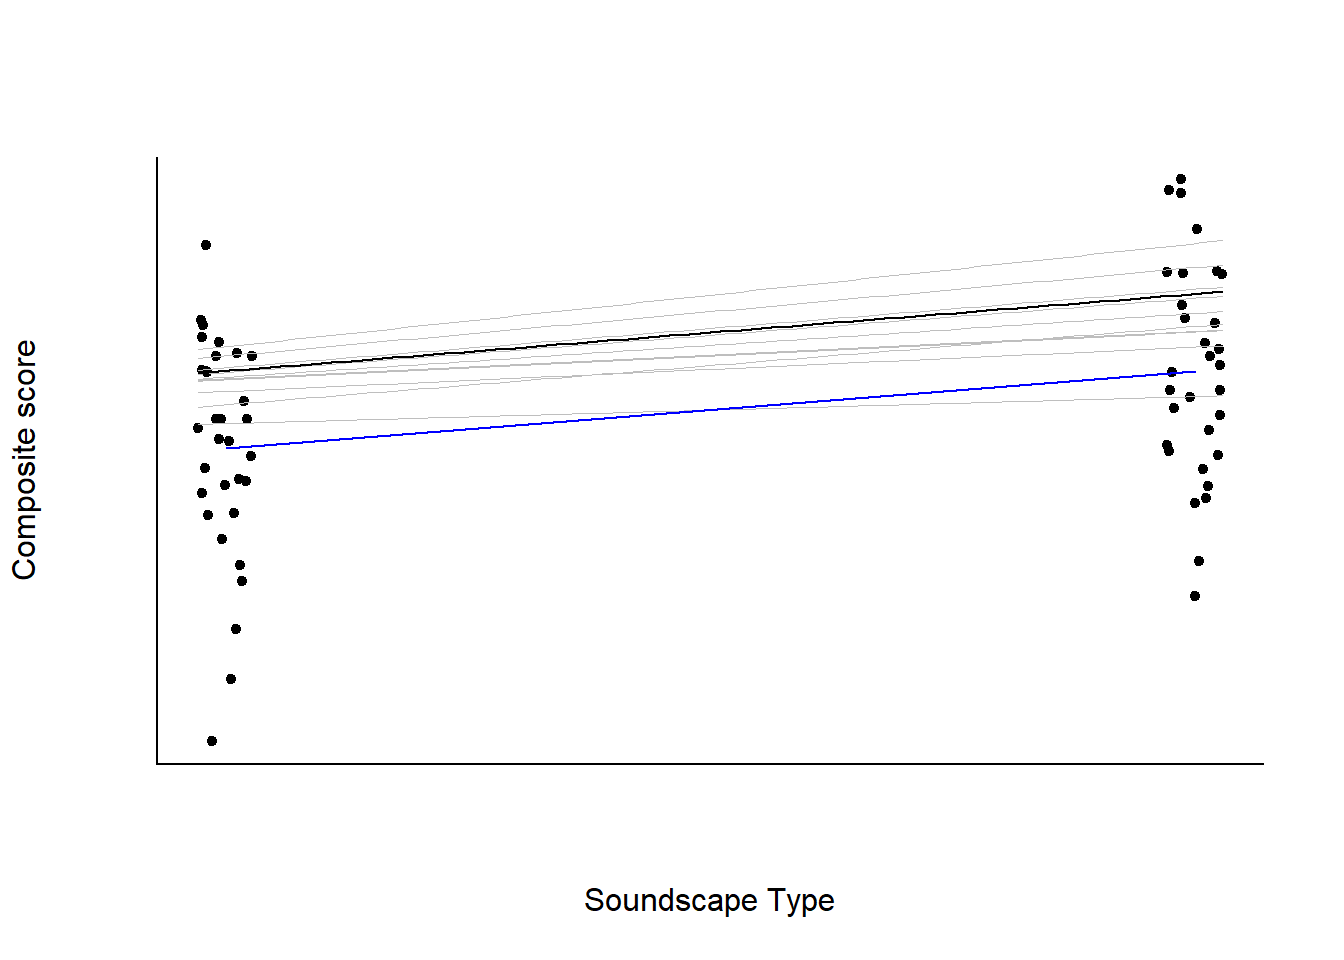
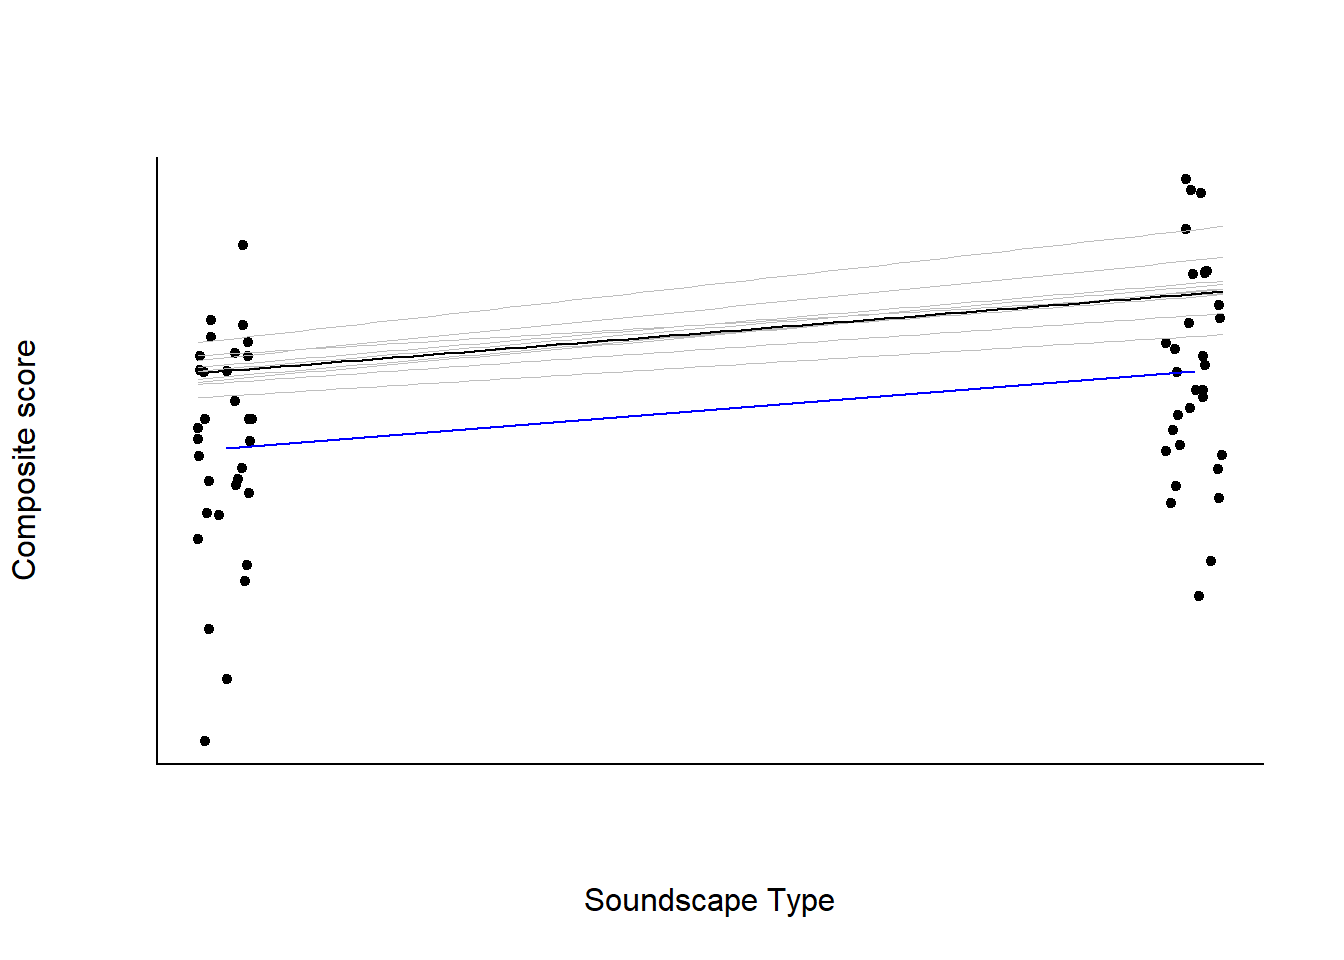
Fixed the compatibility intervals thanks to Mats Nilsson

Changed region(s): [[0.125, 0.1875, 0.9062, 0.5938], [0.875, 0.5625, 0.9062, 0.5938]]

diff --git a/docs/slides.html b/docs/slides.html
@@ -54,8 +54,8 @@ Jon Ingi Hlynsson
 
 
 .center2[
-<div id="htmlwidget-0f6c3204c83e0308e832" style="width:700px;height:504px;" class="grViz html-widget"></div>
-<script type="application/json" data-for="htmlwidget-0f6c3204c83e0308e832">{"x":{"diagram":"digraph flowchart {\n      # node definitions with substituted label text\n      node [fontname = Helvetica, shape = rectangle]        \n      tab1 [label = \"Participants recruited from the University of Chicago campus and surrounding community\"]\n      tab2 [label = \"Total number of participants n=65\"]\n      tab3 [label = \"Participants non analyzable due to non-compliance n=2\"]\n      tab4 [label = \"Participants analyzable for the study n=63\"]\n      tab5 [label = \"Study sample n=63\"]\n      tab6 [label = \"Participants compleated the dual n-back (DNB) task and back-ward digit span (BDS) task\"]\n      tab7 [label = \"Participants heard natural sounds n=31\"]\n      tab8 [label = \"Participants heard urban sounds n=32\"]\n      tab9 [label = \"Participants retook the dual n-back (DNB) task and back-ward digit span (BDS) task\"]\n\n      # edge definitions with the node IDs\n      tab1 -> tab2;\n      tab2 -> tab3;\n      tab2 -> tab4 -> tab5 -> tab6\n      tab6 -> tab7\n      tab6 -> tab8\n      tab7 -> tab9\n      tab8 -> tab9\n      }","config":{"engine":"dot","options":null}},"evals":[],"jsHooks":[]}</script>
+<div id="htmlwidget-159538a13d753cb7a910" style="width:700px;height:504px;" class="grViz html-widget"></div>
+<script type="application/json" data-for="htmlwidget-159538a13d753cb7a910">{"x":{"diagram":"digraph flowchart {\n      # node definitions with substituted label text\n      node [fontname = Helvetica, shape = rectangle]        \n      tab1 [label = \"Participants recruited from the University of Chicago campus and surrounding community\"]\n      tab2 [label = \"Total number of participants n=65\"]\n      tab3 [label = \"Participants non analyzable due to non-compliance n=2\"]\n      tab4 [label = \"Participants analyzable for the study n=63\"]\n      tab5 [label = \"Study sample n=63\"]\n      tab6 [label = \"Participants compleated the dual n-back (DNB) task and back-ward digit span (BDS) task\"]\n      tab7 [label = \"Participants heard natural sounds n=31\"]\n      tab8 [label = \"Participants heard urban sounds n=32\"]\n      tab9 [label = \"Participants retook the dual n-back (DNB) task and back-ward digit span (BDS) task\"]\n\n      # edge definitions with the node IDs\n      tab1 -> tab2;\n      tab2 -> tab3;\n      tab2 -> tab4 -> tab5 -> tab6\n      tab6 -> tab7\n      tab6 -> tab8\n      tab7 -> tab9\n      tab8 -> tab9\n      }","config":{"engine":"dot","options":null}},"evals":[],"jsHooks":[]}</script>
 ]
 
 ---
